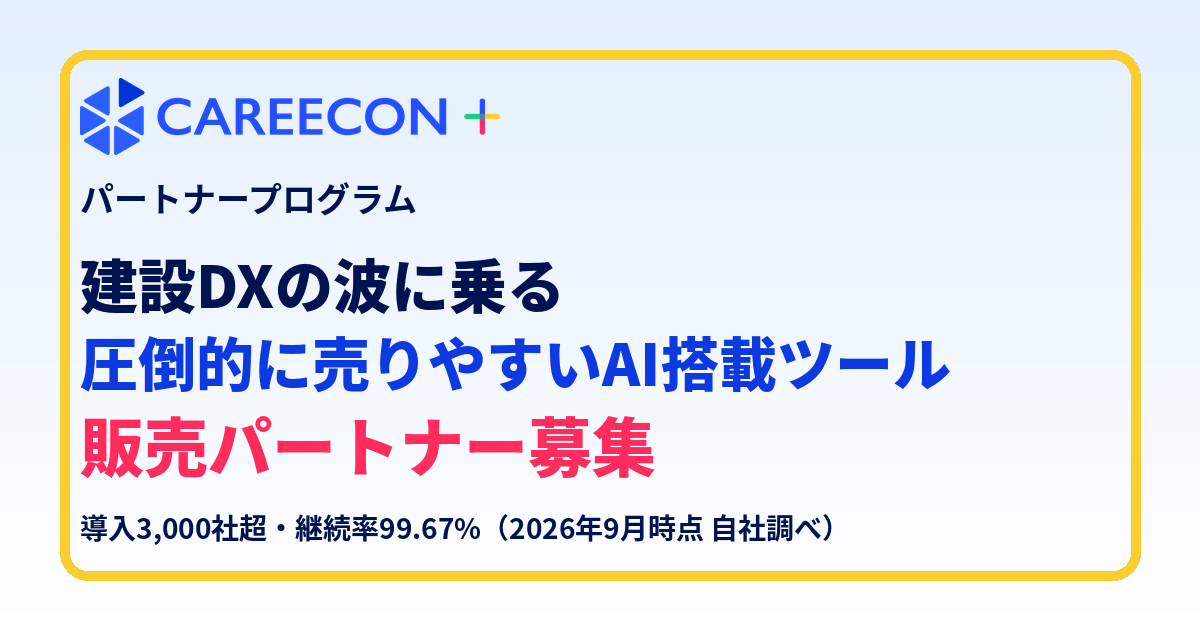
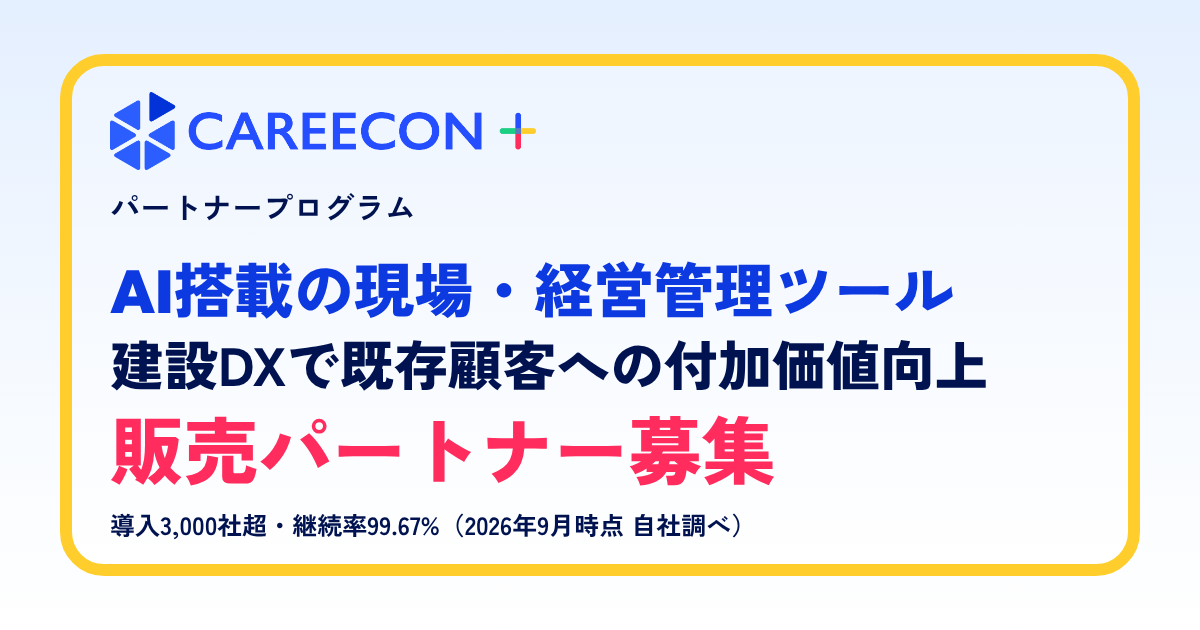
OGP画像を現在のファーストビューに合わせて更新
見出しを「AI搭載の現場・経営管理ツール／建設DXで既存顧客への付加価値向上／販売パートナー募集」に差し替え(旧: 圧倒的に売りやすいAI搭載ツール)。
SNS側のキャッシュ対策として og:image / twitter:image のURLに ?v=2 を付与。

Claude-Session: https://claude.ai/code/session_01DX17yBFHgBbeMSggXaWyEr

diff --git a/index.html b/index.html
@@ -17,14 +17,14 @@
 <meta property="og:locale" content="ja_JP">
 <meta property="og:title" content="CAREECON+ パートナープログラム｜AI搭載の現場・経営管理ツール 販売パートナー募集">
 <meta property="og:description" content="建設DXで既存顧客への付加価値向上を。導入3,000社超・AI搭載の現場・経営管理ツール「CAREECON+」の販売パートナーを募集。本部が営業から導入まで伴走します。">
-<meta property="og:image" content="https://naoki0715.github.io/careecon-partner-lp/og-image.png">
+<meta property="og:image" content="https://naoki0715.github.io/careecon-partner-lp/og-image.png?v=2">
 <meta property="og:image:width" content="1200">
 <meta property="og:image:height" content="630">
 <meta property="og:image:alt" content="CAREECON+ パートナープログラム 販売パートナー募集">
 <meta name="twitter:card" content="summary_large_image">
 <meta name="twitter:title" content="CAREECON+ パートナープログラム｜AI搭載の現場・経営管理ツール 販売パートナー募集">
 <meta name="twitter:description" content="建設DXで既存顧客への付加価値向上を。導入3,000社超・AI搭載の現場・経営管理ツール「CAREECON+」の販売パートナーを募集。">
-<meta name="twitter:image" content="https://naoki0715.github.io/careecon-partner-lp/og-image.png">
+<meta name="twitter:image" content="https://naoki0715.github.io/careecon-partner-lp/og-image.png?v=2">
 <!-- 構造化データ（検索エンジン・AI検索向け）。FAQは画面上のFAQと同じ内容 -->
 <script type="application/ld+json">
 {
